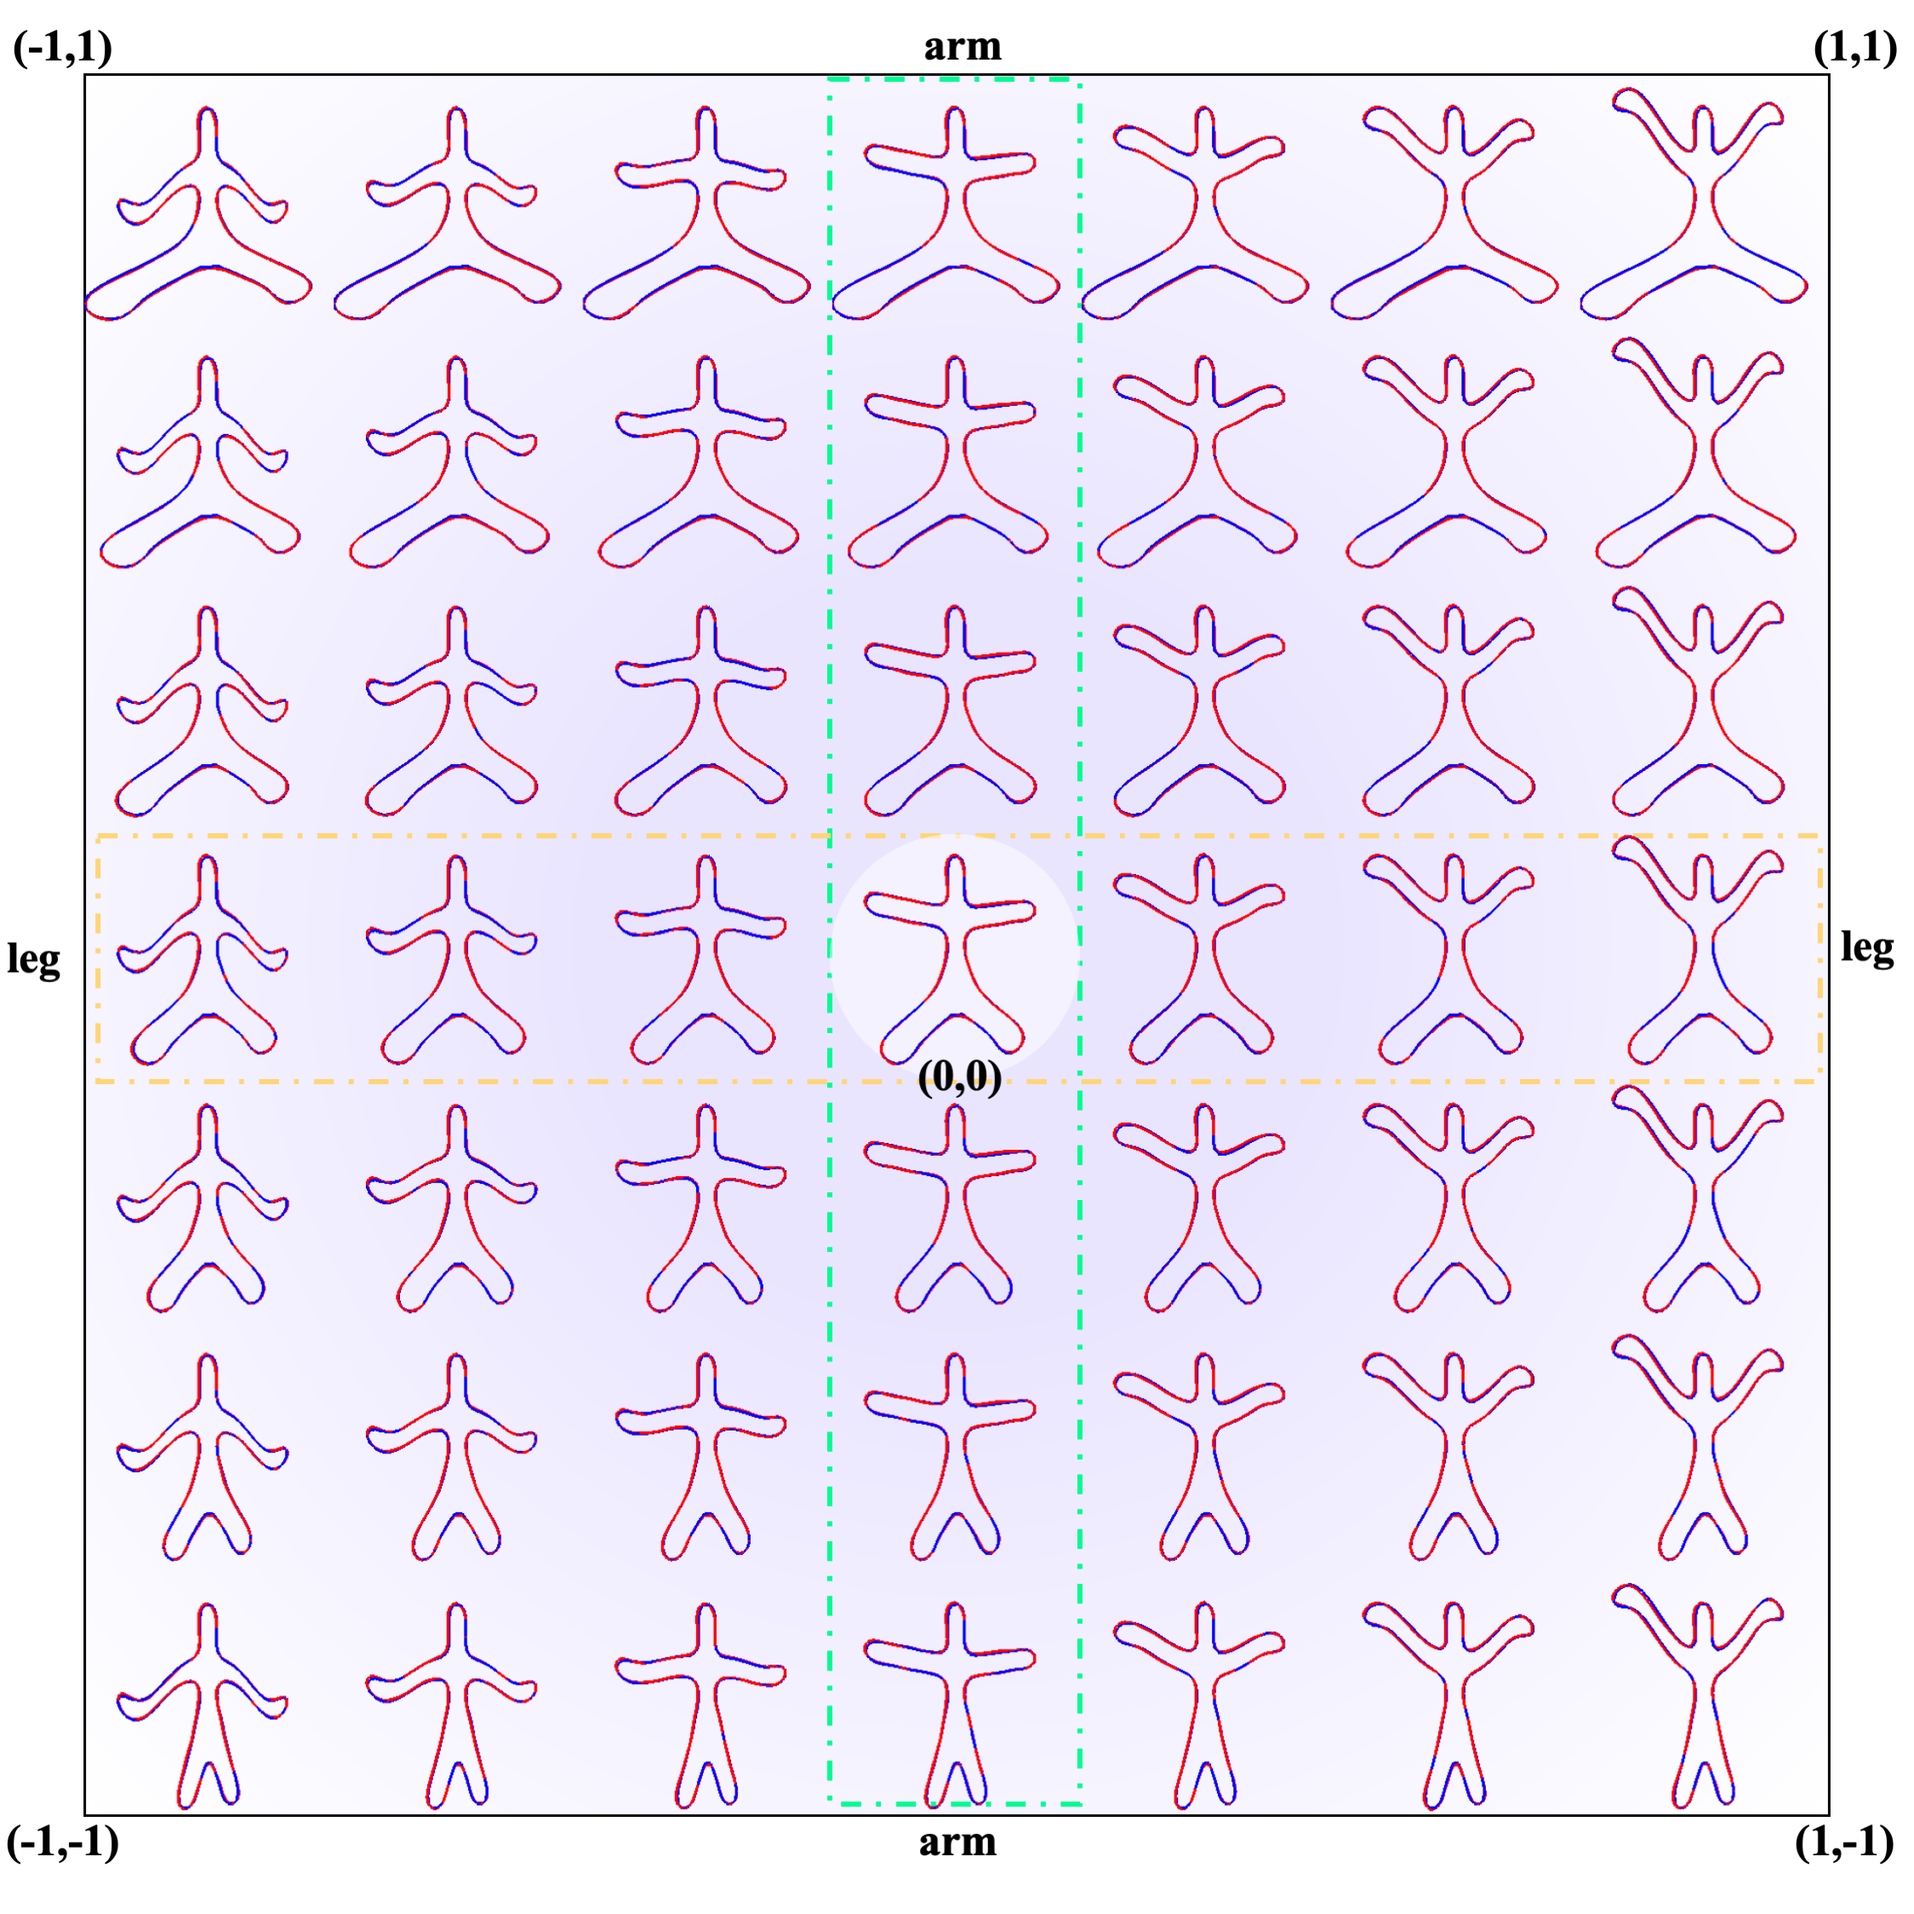
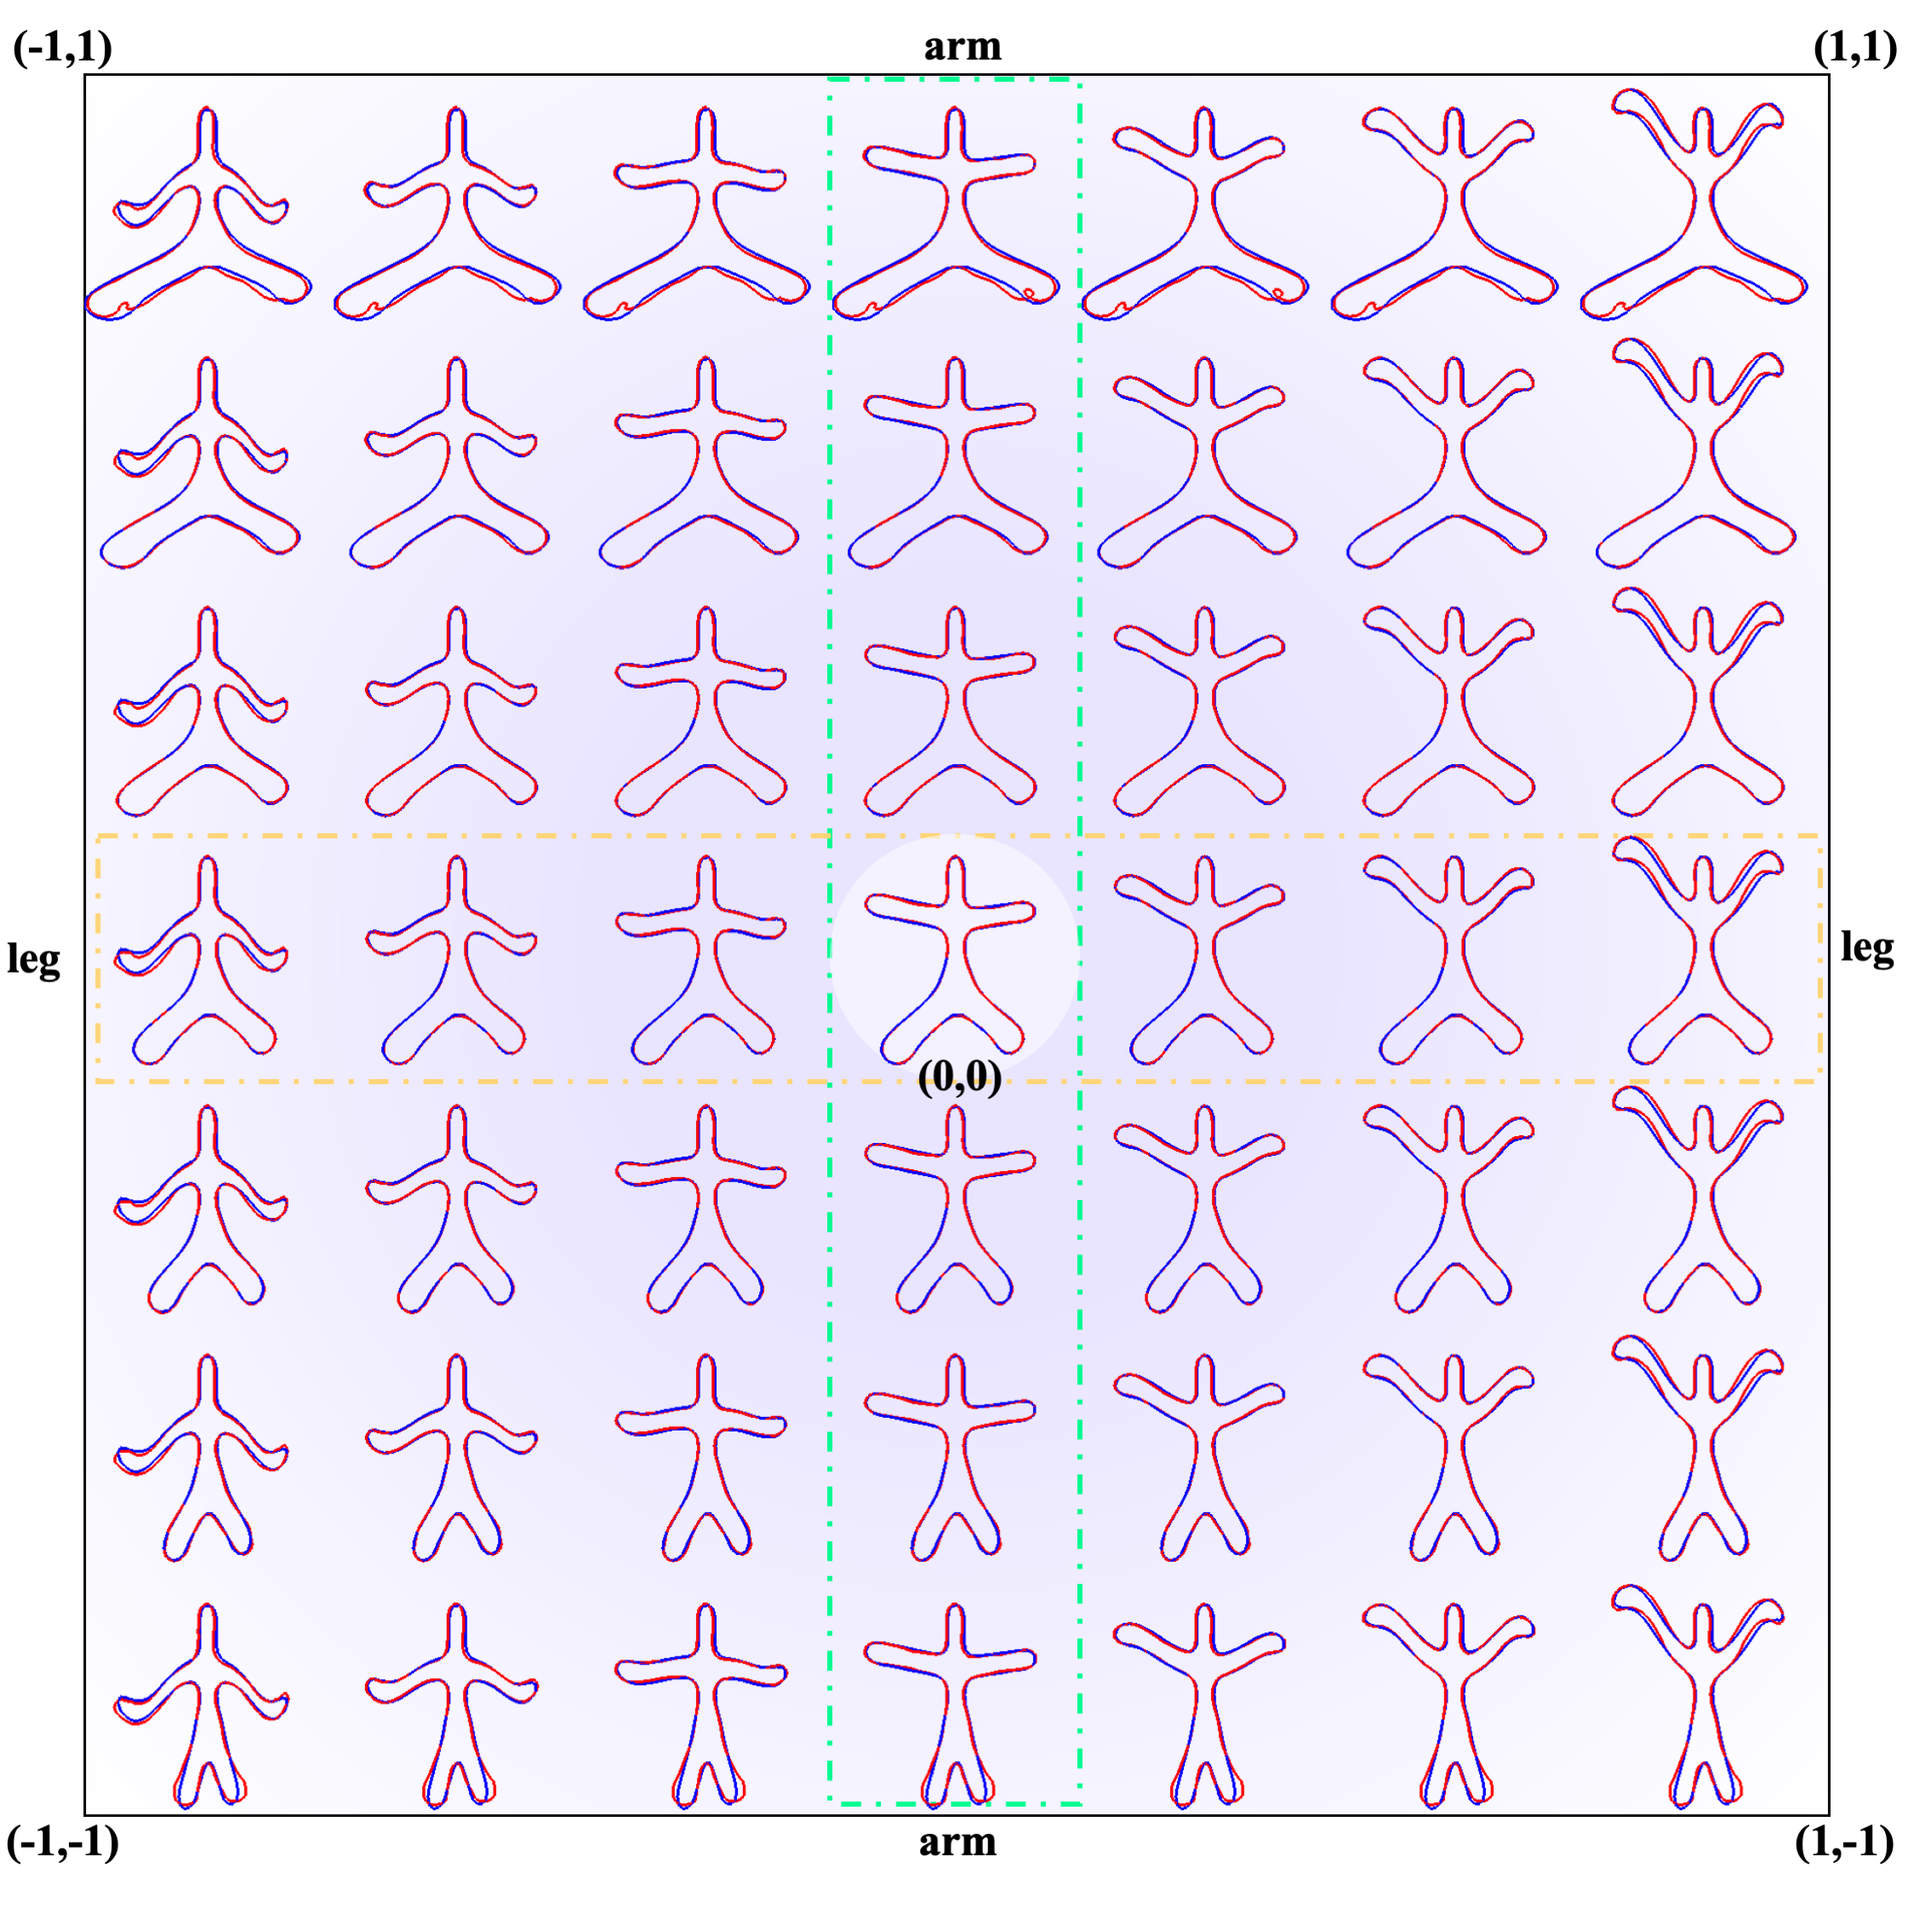
fix

diff --git a/docs/index.html b/docs/index.html
@@ -114,7 +114,8 @@ body {
 <section class="hero teaser">
   <div class="container is-max-desktop">
     <div class="hero-body">
-              <center><h2 class="title is-3">Motivation of <tt>NAISR</tt></h2>    </center>
+              <center><h2 class="title is-3">Motivation of <tt>NAISR</tt></h2></center>
+        <hr>
       <center><img src="./static/images/motivation.svg" width="750"></center>
       <!-- <h2 class="subtitle has-text-centered"> -->
         <!-- We propose <span class="dnerf">SegNext</span> for next-generation promptable segmentation <br> with low latency, high quality, and diverse prompts.  -->
@@ -142,10 +143,8 @@ body {
 
 <section class="section">
   <div class="container is-max-desktop">
-    <div class="columns is-centered has-text-centered">
-      <div class="column is-four-fifths">
-        <h2 class="title is-3">Abstract</h2>
-        <div class="content has-text-justified">
+      <center><h2 class="title is-3">Abstract</h2></center>
+       <hr>
         <p>
         Deep implicit functions (DIFs) have emerged as a powerful paradigm for many computer vision tasks such as 3D shape reconstruction, generation, registration, completion, editing, and understanding.
           However, given a set of 3D shapes with associated covariates there is at present no shape representation method which allows to precisely represent the shapes while capturing the individual dependencies on each covariate.
@@ -157,17 +156,16 @@ body {
             1) <i>Starman</i>, a simulated 2D shape dataset; 2) the ADNI hippocampus 3D shape dataset; and 3) a pediatric airway 3D shape dataset.
           Our experiments demonstrate that <tt>NAISR</tt> achieves excellent shape reconstruction performance while retaining interpretability.
         </p>
-       </div>
-      </div>
     </div>
-  </div>
+
 </section>
 
 
 <section class="section">
   <div class="container is-max-desktop">    
     <center><h2 class="title is-3">Method</h2></center>
-    <center><img src="./static/images/NAISRoverview.png" vspace="60"></center>
+              <hr>
+    <center><img src="./static/images/NAISRoverview.png" vspace="20"></center>
     <strong>Neural Additive Implicit Shape Representation.</strong>
     During training we learn the template $\mathcal{T}$ and the multi-layer perceptrons (MLPs)  $\{g_i\}$ predicting the covariate-wise displacement fields $\{\mathbf{d}_i\}$.
     The displacement fields are added to obtain the overall displacement field $\mathbf{d}$ defined in the target space;
@@ -185,7 +183,7 @@ body {
     <div class="columns is-centered">
         <div class="container is-max-desktop">
         <center><h2 class="title is-3">Disentangled Shape Evolutions</h2></center>
-
+        <hr>
         <div class="content has-text-justified">
           <p>
               Disentangled Shape Evolution for <i>Starmans</i>. The blue shapes are the groundtruth shapes and the red shapes are the reconstructions.
@@ -212,7 +210,7 @@ body {
                   <center><p class="is-bold">Leg Movement</p></center>
             </div>
         </div>
-
+        <hr>
         <div class="content has-text-justified">
           <p>
             Disentangled Shape Evolution for Pediatric Airways.
@@ -251,7 +249,7 @@ body {
 
         </div>
 
-
+        <hr>
         <div class="content has-text-justified">
           <p>
             Disentangled Shape Evolution for ADNI Hippocampus.
@@ -307,49 +305,16 @@ body {
 
 <section class="section">
   <div class="container is-max-desktop">
-    <center><h2 class="title is-3">Application - Shape Extrapolation in Template Space</h2></center>
-    <center><img src="./static/images/starman_shapematrix_template.png"></center>
-    Click to segmentation evaluation on HQSeg-44K and DAVIS. With varying numbers of clicks, our method consistently outperforms
-    existing competitive approaches. The metric is mean Intersection over Union (mIoU).
-
-    <br><br><br>
-
+    <center><h2 class="title is-3">Shape Extrapolation in Template Space</h2></center>
+  <hr>
+    <center><h3 class="title is-4" >Template Shape Space for <i>Starman</i>.</h3></center>
+    <center><img src="./static/images/starman_shapematrix_template.png" ></center>
+              <hr>
+    <center><h3 class="title is-4">Template Shape Space for ADNI Hippocampus.</h3></center>
     <center><img src="./static/images/shapematrix_template_adni.png"></center>
-    Click to segmentation evaluation on HQSeg-44K and DAVIS. With varying numbers of clicks, our method consistently outperforms
-    existing competitive approaches. The metric is mean Intersection over Union (mIoU).
-
-    <br><br><br>
-
-
+              <hr>
+    <center><h3 class="title is-4">Template Shape Space for Pediatric Airways.</h3></center>
     <center><img src="./static/images/shapematrix_template_airway.png"></center>
-    Click to segmentation evaluation on HQSeg-44K and DAVIS. With varying numbers of clicks, our method consistently outperforms
-    existing competitive approaches. The metric is mean Intersection over Union (mIoU).
-
-    <br><br><br>
-      </div>
-</section>
-
-<section class="section">
-    <div class="container is-max-desktop">
-    <center><h2 class="title is-3">Application - Shape Extrapolation for a Specific Patient</h2></center>
-    <center><img src="./static/images/starman_shapematrix_specific.png"></center>
-    Click to segmentation evaluation on HQSeg-44K and DAVIS. With varying numbers of clicks, our method consistently outperforms
-    existing competitive approaches. The metric is mean Intersection over Union (mIoU).
-
-    <br><br><br>
-
-    <center><img src="./static/images/shapematrix_SPECIFIC_adni.png"></center>
-    Click to segmentation evaluation on HQSeg-44K and DAVIS. With varying numbers of clicks, our method consistently outperforms
-    existing competitive approaches. The metric is mean Intersection over Union (mIoU).
-
-    <br><br><br>
-
-
-    <center><img src="./static/images/shapematrix_1364_airway.png"></center>
-    Click to segmentation evaluation on HQSeg-44K and DAVIS. With varying numbers of clicks, our method consistently outperforms
-    existing competitive approaches. The metric is mean Intersection over Union (mIoU).
-
-    <br><br><br>
   </div>
 </section>
 
